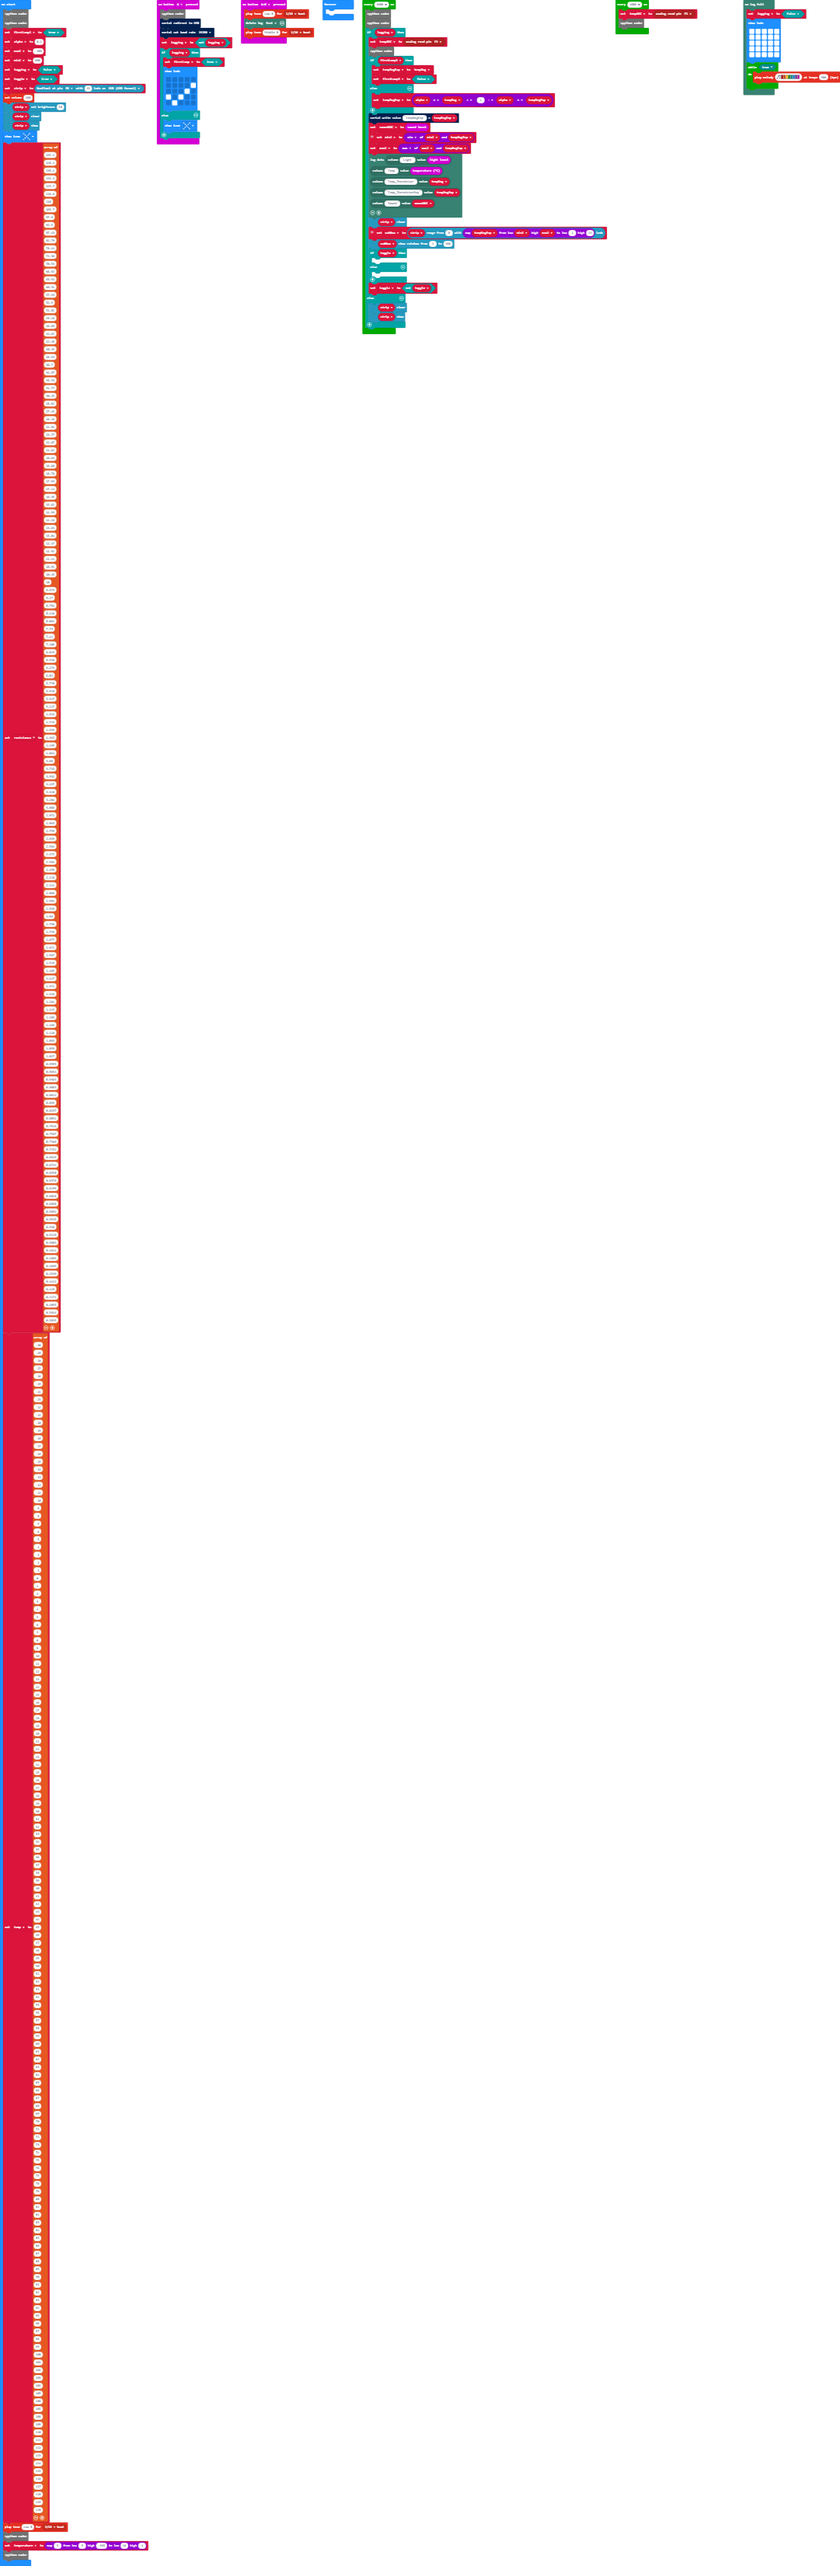
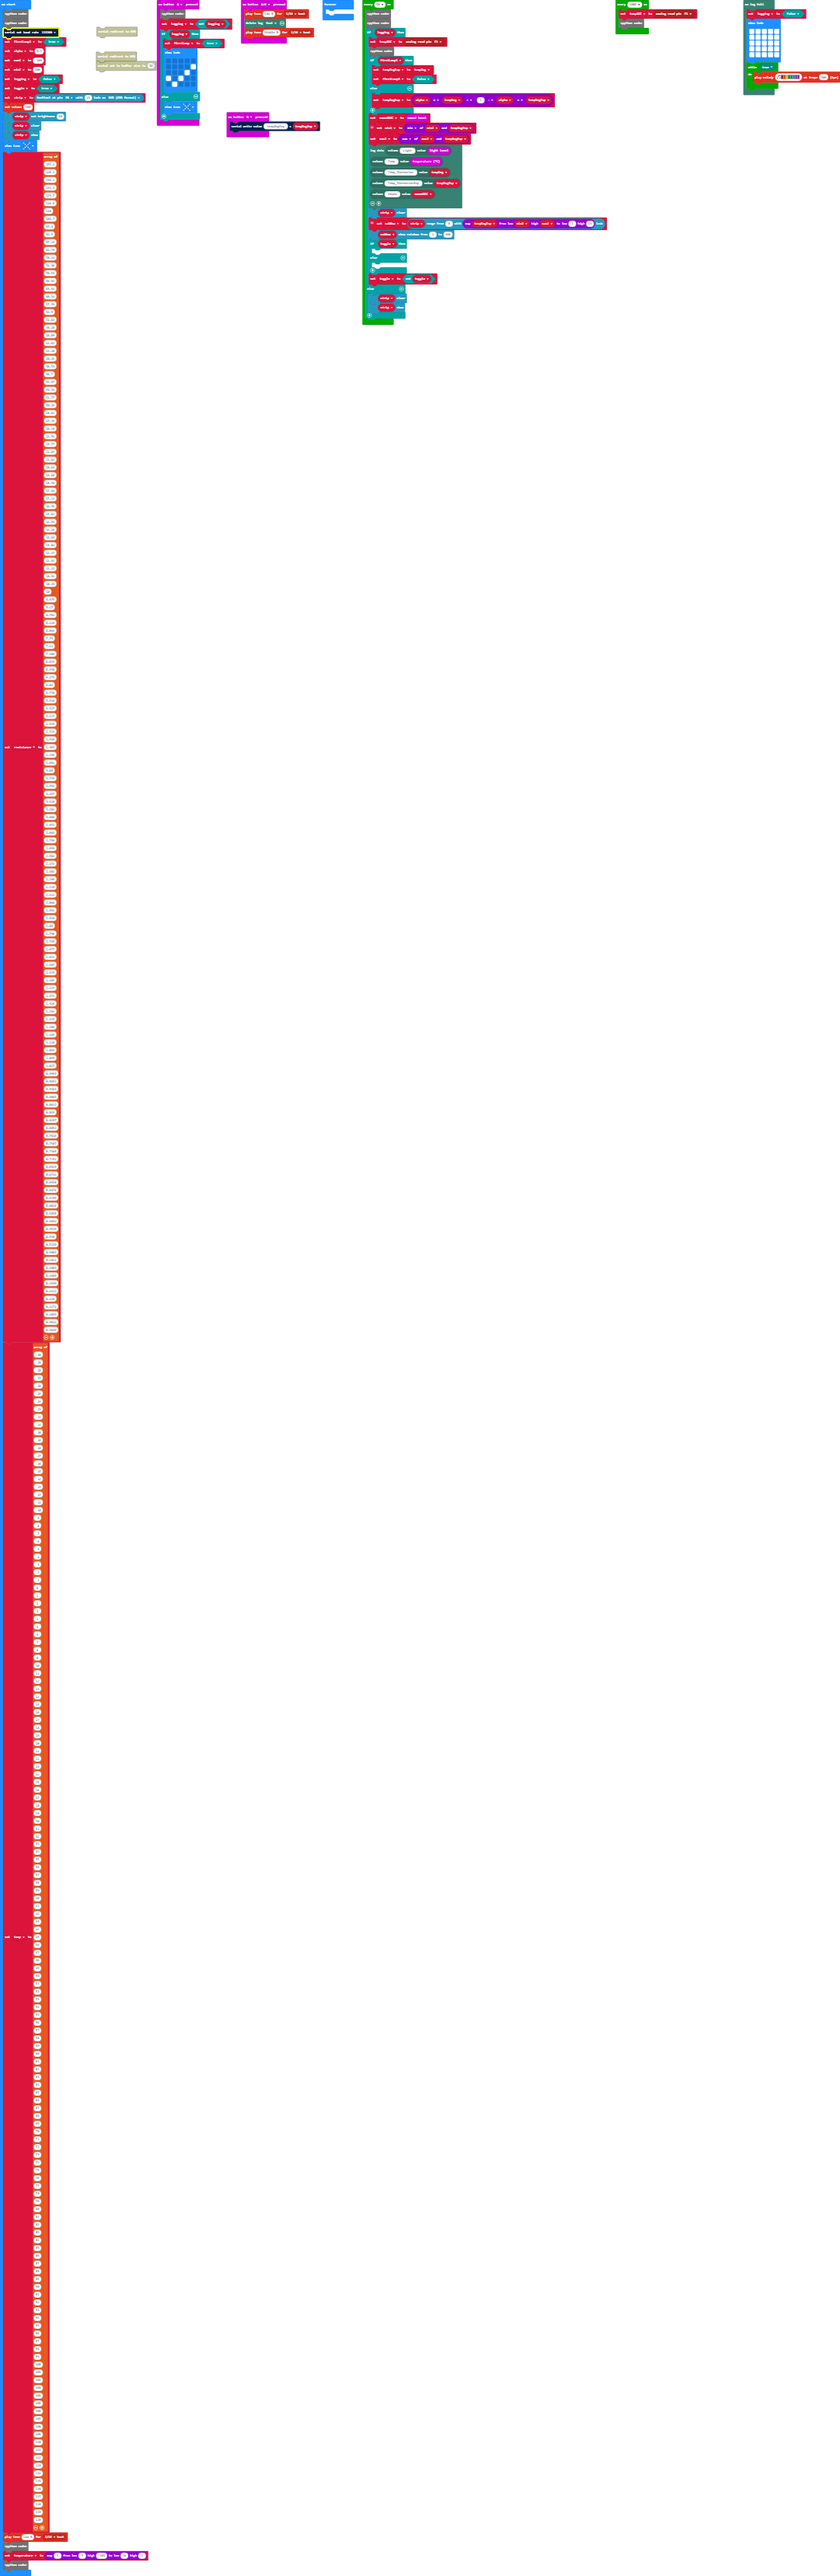
Added some simple serial output, but gets partailly corrupted in Putty and not able to fix

diff --git a/main.ts b/main.ts
@@ -13,9 +13,7 @@ datalogger.onLogFull(function () {
 })
 input.onButtonPressed(Button.A, function () {
     let firstLoop: boolean;
-serial.redirectToUSB()
-    serial.setBaudRate(BaudRate.BaudRate19200)
-    logging = !(logging)
+logging = !(logging)
     if (logging) {
         firstLoop = true
         basic.showLeds(`
@@ -34,11 +32,15 @@ input.onButtonPressed(Button.AB, function () {
     datalogger.deleteLog(datalogger.DeleteType.Fast)
     music.playTone(494, music.beat(BeatFraction.Sixteenth))
 })
+input.onButtonPressed(Button.B, function () {
+    serial.writeValue("tempDegExp", tempDegExp)
+})
 let soundADC = 0
 let tempDegExp = 0
 let logging = false
 let tempADC = 0
 let tempDeg = 0
+serial.setBaudRate(BaudRate.BaudRate115200)
 let firstLoop2 = true
 let alpha = 0.2
 let max2 = -100
@@ -374,6 +376,10 @@ function interpolate(value: number, x: number[] = [], y: number[] = []): number 
 let temperature = Math.map(5, 5, -365, 16, 4)
 let temperature2 = interpolate(150, resistance, temp)
 loops.everyInterval(1000, function () {
+    tempADC = pins.analogReadPin(AnalogPin.P1)
+    tempDeg = interpolate(10 / (1023 / tempADC - 1), resistance, temp)
+})
+loops.everyInterval(50, function () {
     let firstLoop3: boolean;
 let subBow: neopixel.Strip;
 if (logging) {
@@ -385,7 +391,6 @@ if (firstLoop3) {
         } else {
             tempDegExp = alpha * tempDeg + (1 - alpha) * tempDegExp
         }
-        serial.writeValue("tempDegExp", tempDegExp)
         soundADC = input.soundLevel()
         // determine if we have new max and min temps
         min2 = Math.min(min2, tempDegExp)
@@ -414,10 +419,6 @@ if (firstLoop3) {
         strip.clear()
         strip.show()
     }
-})
-loops.everyInterval(1000, function () {
-    tempADC = pins.analogReadPin(AnalogPin.P1)
-    tempDeg = interpolate(10 / (1023 / tempADC - 1), resistance, temp)
 })
 basic.forever(function () {
 	

diff --git a/main.py b/main.py
@@ -14,8 +14,6 @@ datalogger.on_log_full(on_log_full)
 
 def on_button_pressed_a():
     global logging
-    serial.redirect_to_usb()
-    serial.set_baud_rate(BaudRate.BAUD_RATE19200)
     logging = not (logging)
     if logging:
         firstLoop = True
@@ -36,11 +34,17 @@ def on_button_pressed_ab():
     music.play_tone(494, music.beat(BeatFraction.SIXTEENTH))
 input.on_button_pressed(Button.AB, on_button_pressed_ab)
 
+def on_button_pressed_b():
+    serial.write_line("Test")
+input.on_button_pressed(Button.B, on_button_pressed_b)
+
 soundADC = 0
 tempDegExp = 0
 logging = False
 tempADC = 0
 tempDeg = 0
+serial.set_baud_rate(BaudRate.BAUD_RATE19200)
+serial.redirect_to_usb()
 firstLoop2 = True
 alpha = 0.2
 max2 = -100
@@ -378,7 +382,6 @@ def on_every_interval():
             firstLoop3 = False
         else:
             tempDegExp = alpha * tempDeg + (1 - alpha) * tempDegExp
-        serial.write_value("tempDegExp", tempDegExp)
         soundADC = input.sound_level()
         # determine if we have new max and min temps
         min2 = min(min2, tempDegExp)
